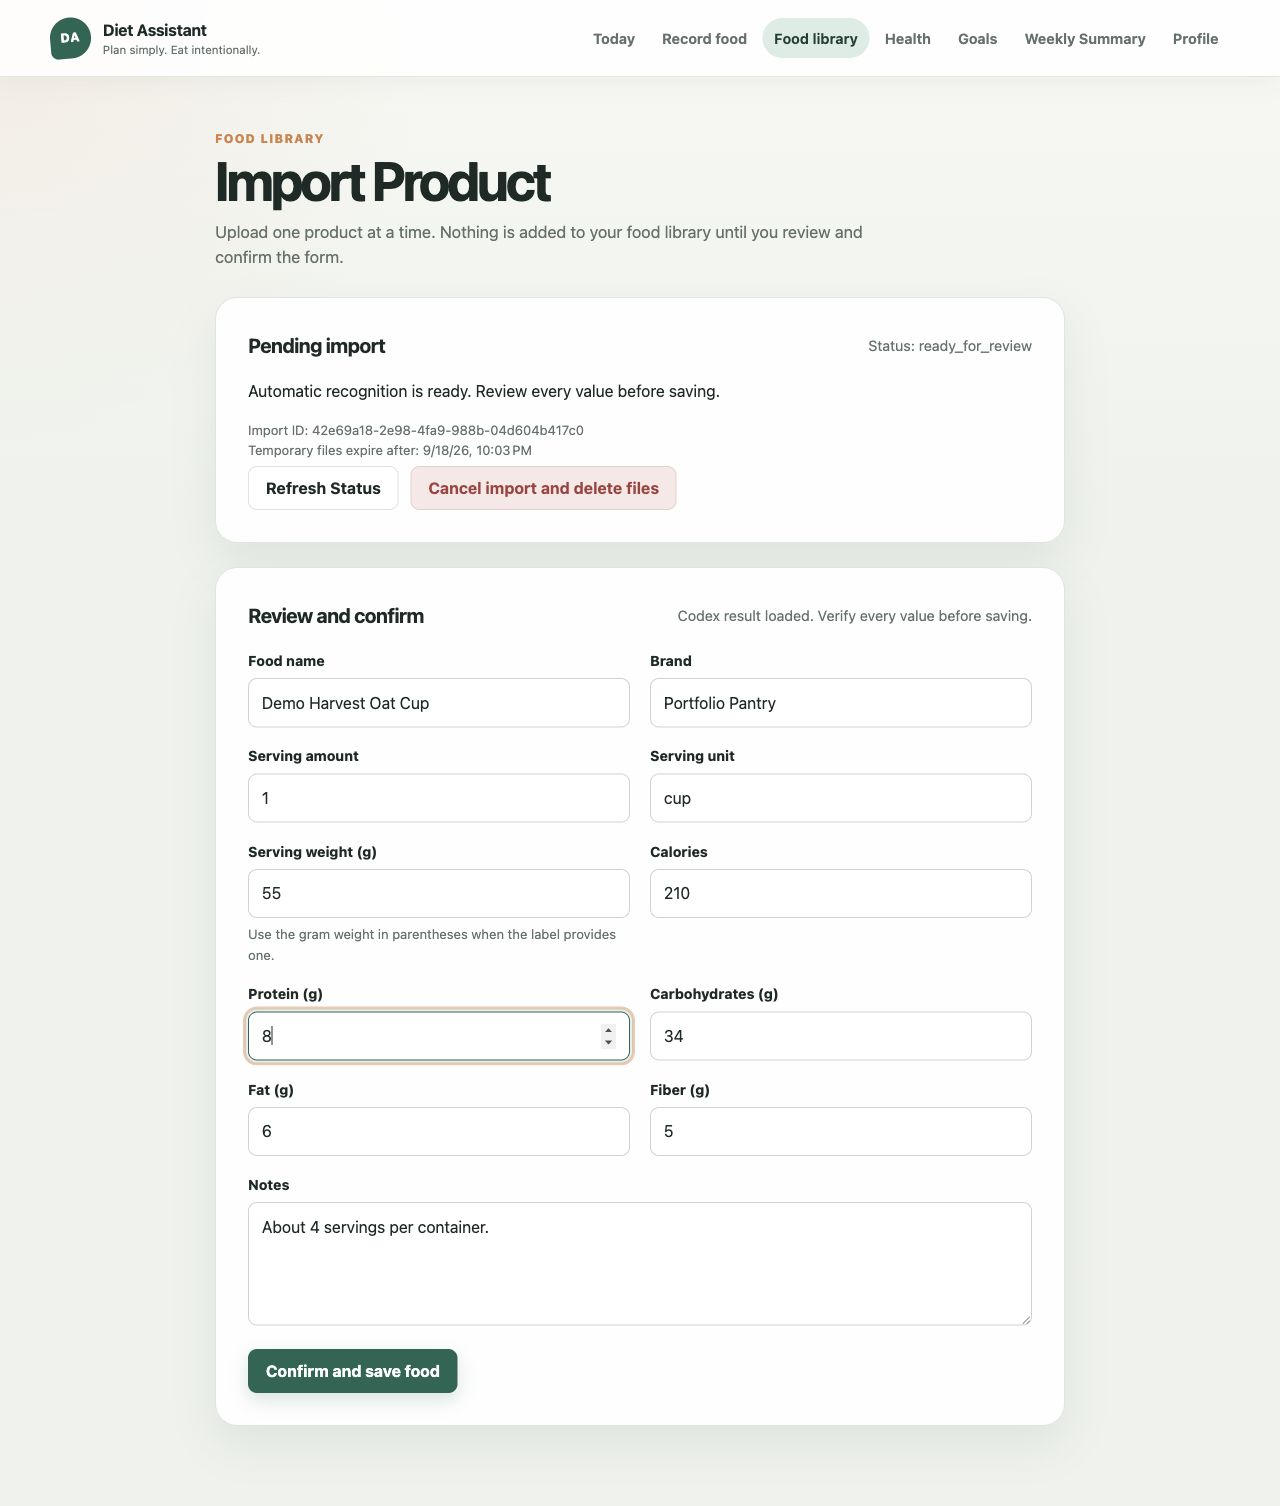
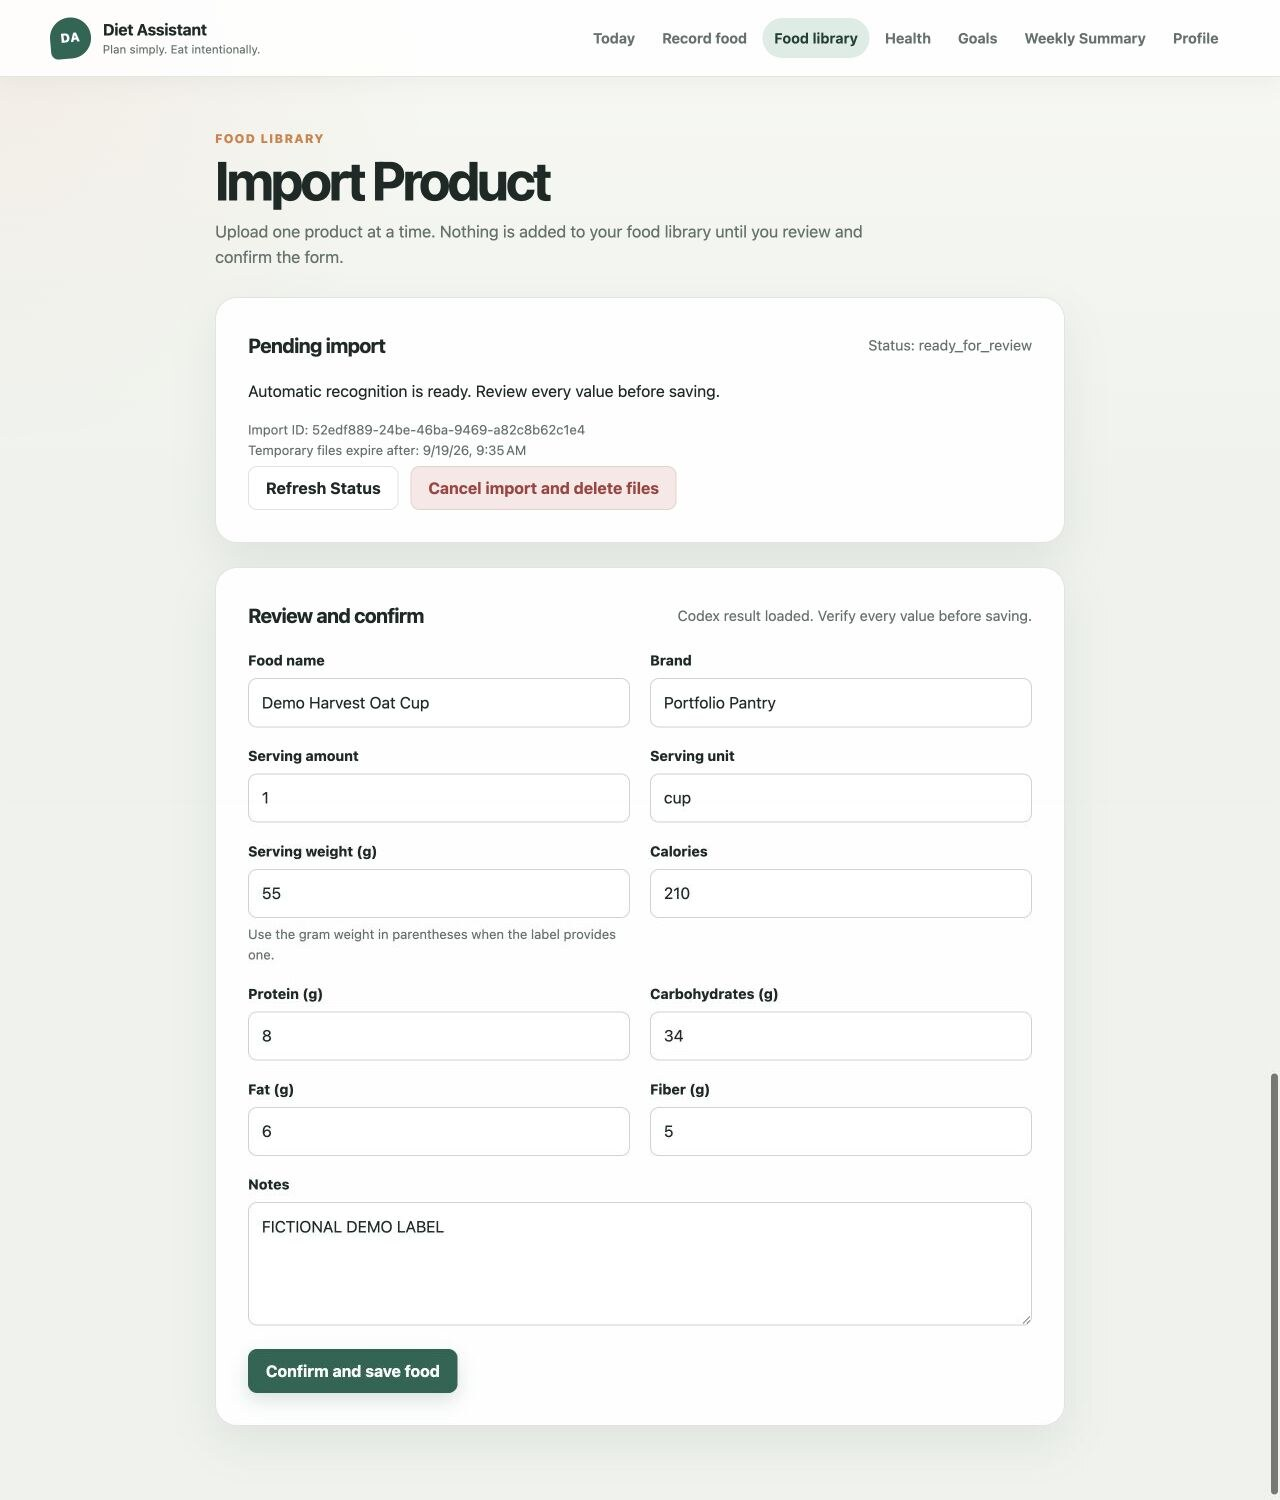
docs: refine portfolio screenshots

diff --git a/README.md b/README.md
@@ -68,17 +68,17 @@ The sync stores one aggregate per day and is safe to repeat. It does not expose 
 
 The Today dashboard brings nutrition goals, meal history, and daily energy data into one view.
 
-![Today dashboard with nutrition and energy progress](docs/images/today-dashboard.jpg)
+[![Today dashboard with nutrition and energy progress](docs/images/today-dashboard.jpg)](docs/images/today-dashboard.jpg)
 
 | Food Library | Product photo review |
 | --- | --- |
-| ![Saved Food Library with reusable serving and nutrition data](docs/images/food-library.jpg) | ![Editable product photo recognition result ready for confirmation](docs/images/photo-recognition-review.jpg) |
+| [![Saved Food Library with reusable serving and nutrition data](docs/images/food-library.jpg)](docs/images/food-library.jpg) | [![Editable product photo recognition result ready for confirmation](docs/images/photo-recognition-review.jpg)](docs/images/photo-recognition-review.jpg) |
 
 USDA FoodData Central search stays server-side and turns selected results into an editable 100 g import before saving.
 
 | USDA search | USDA import review |
 | --- | --- |
-| ![USDA FoodData Central search results for sweet potato](docs/images/usda-search.jpg) | ![Editable USDA food import review](docs/images/usda-import-review.jpg) |
+| [![USDA FoodData Central search results for sweet potato](docs/images/usda-search.jpg)](docs/images/usda-search.jpg) | [![Editable USDA food import review](docs/images/usda-import-review.jpg)](docs/images/usda-import-review.jpg) |
 
 All screenshots use fictional demo records in an isolated local database. No personal health information or credentials are included.
 
